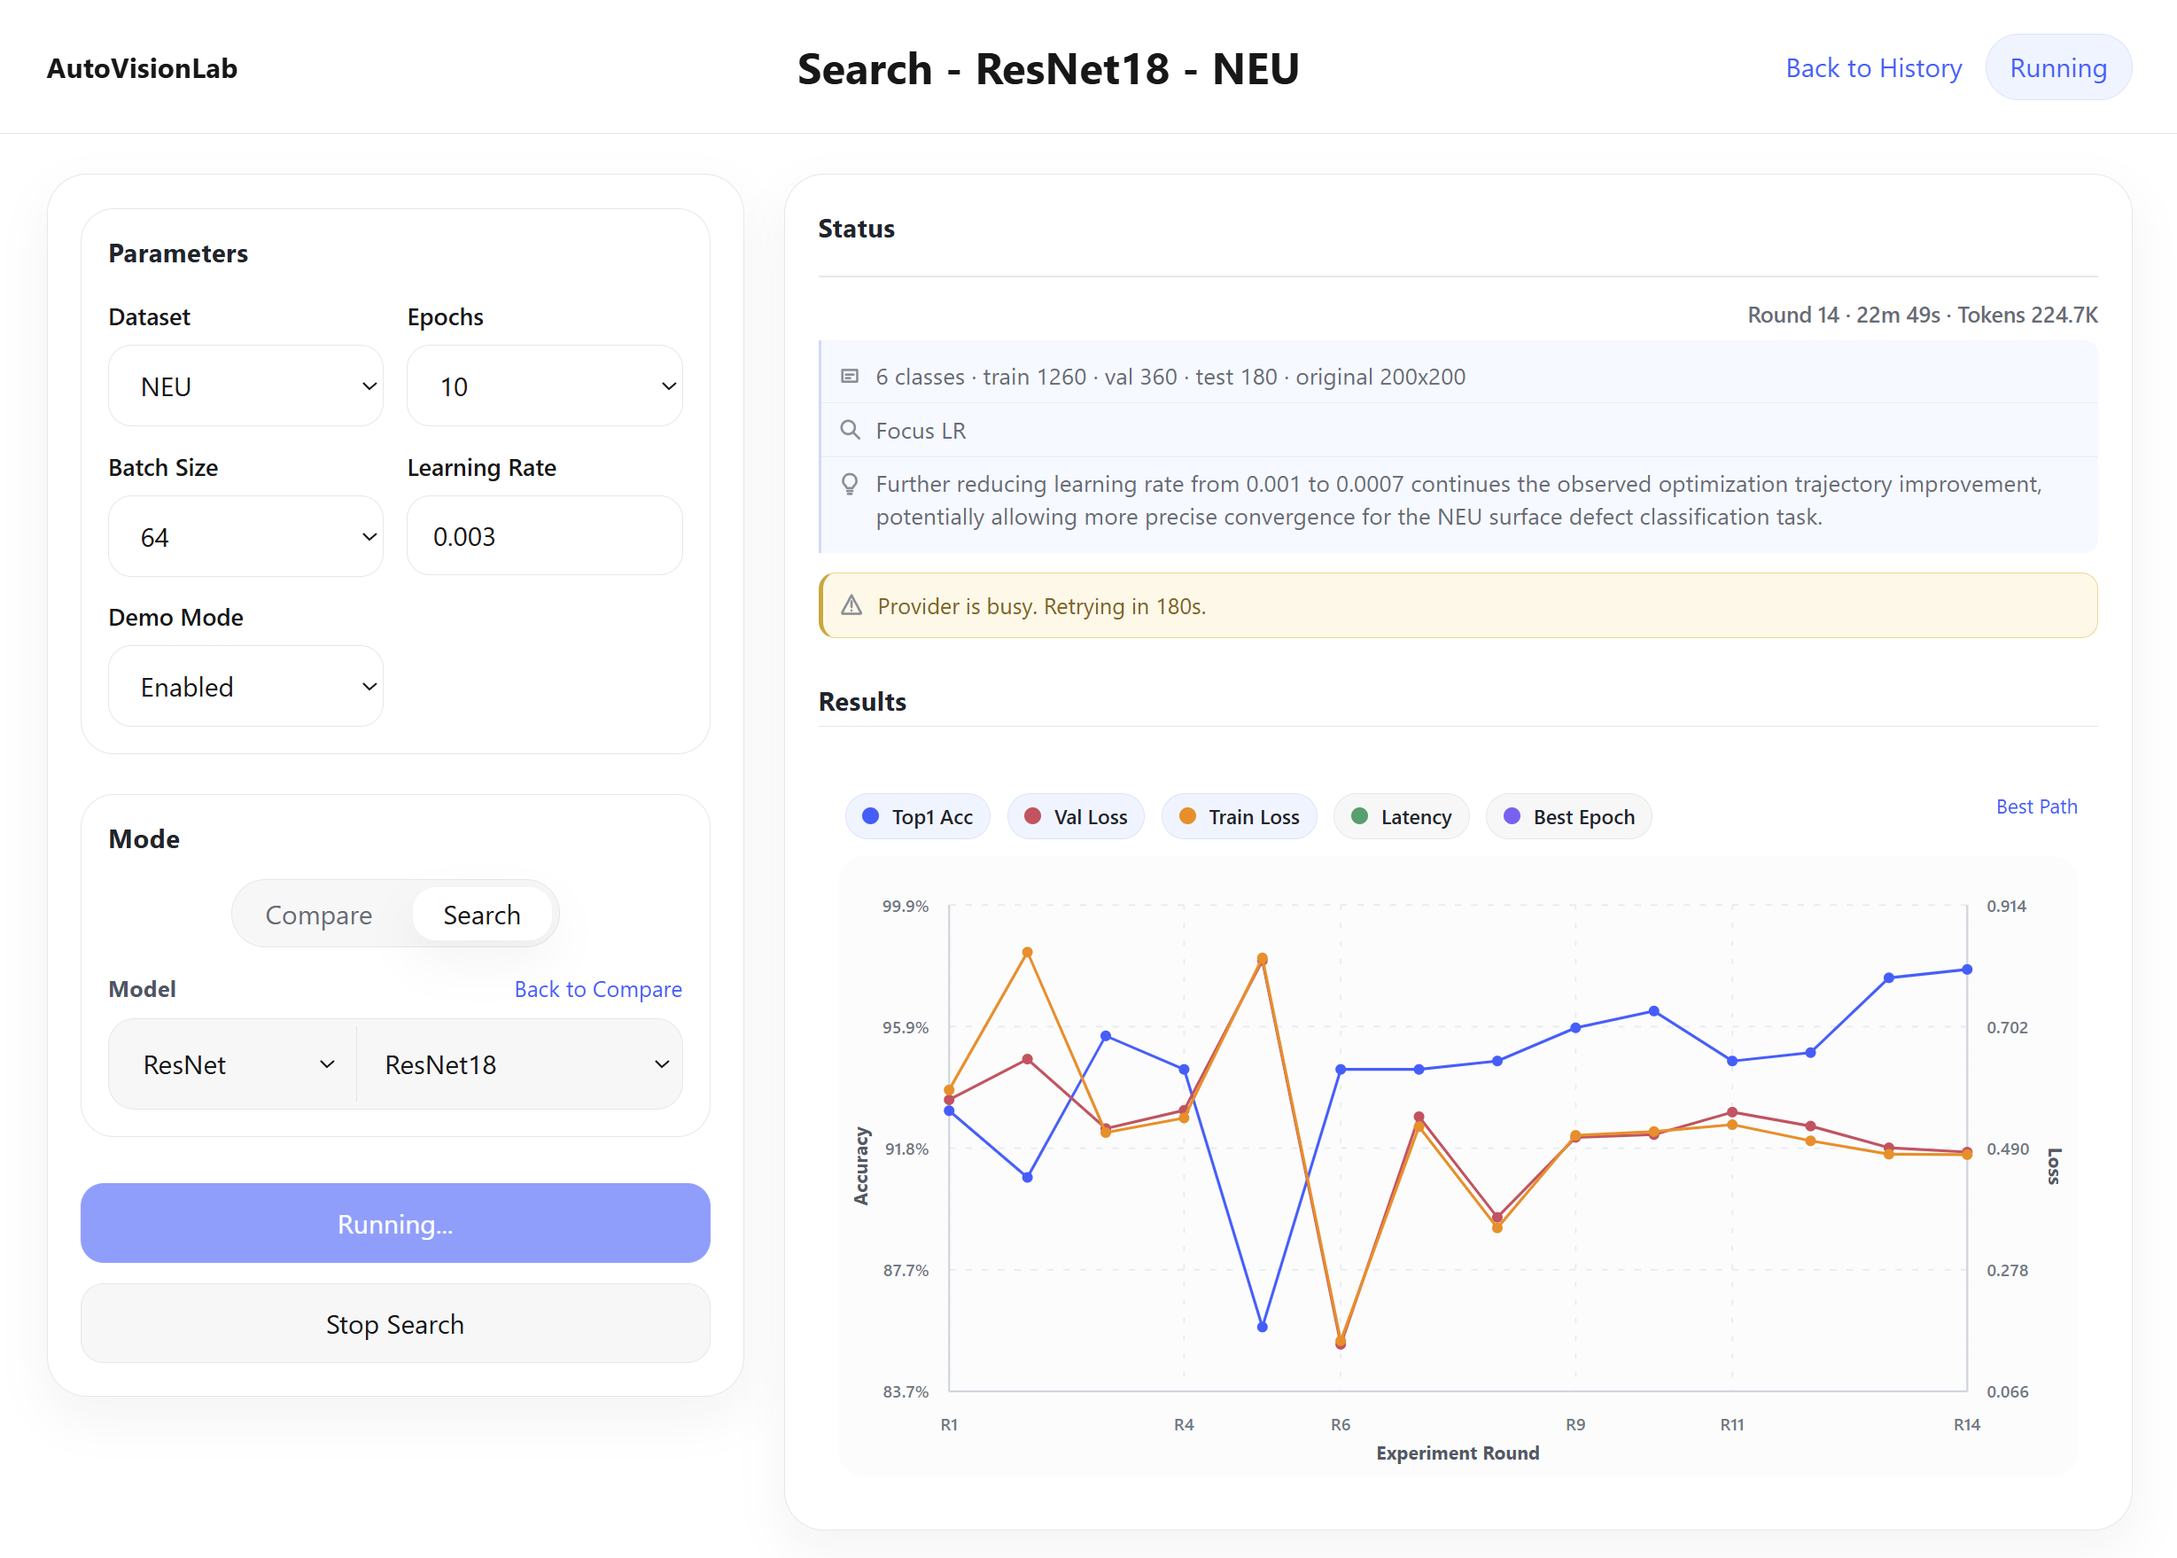
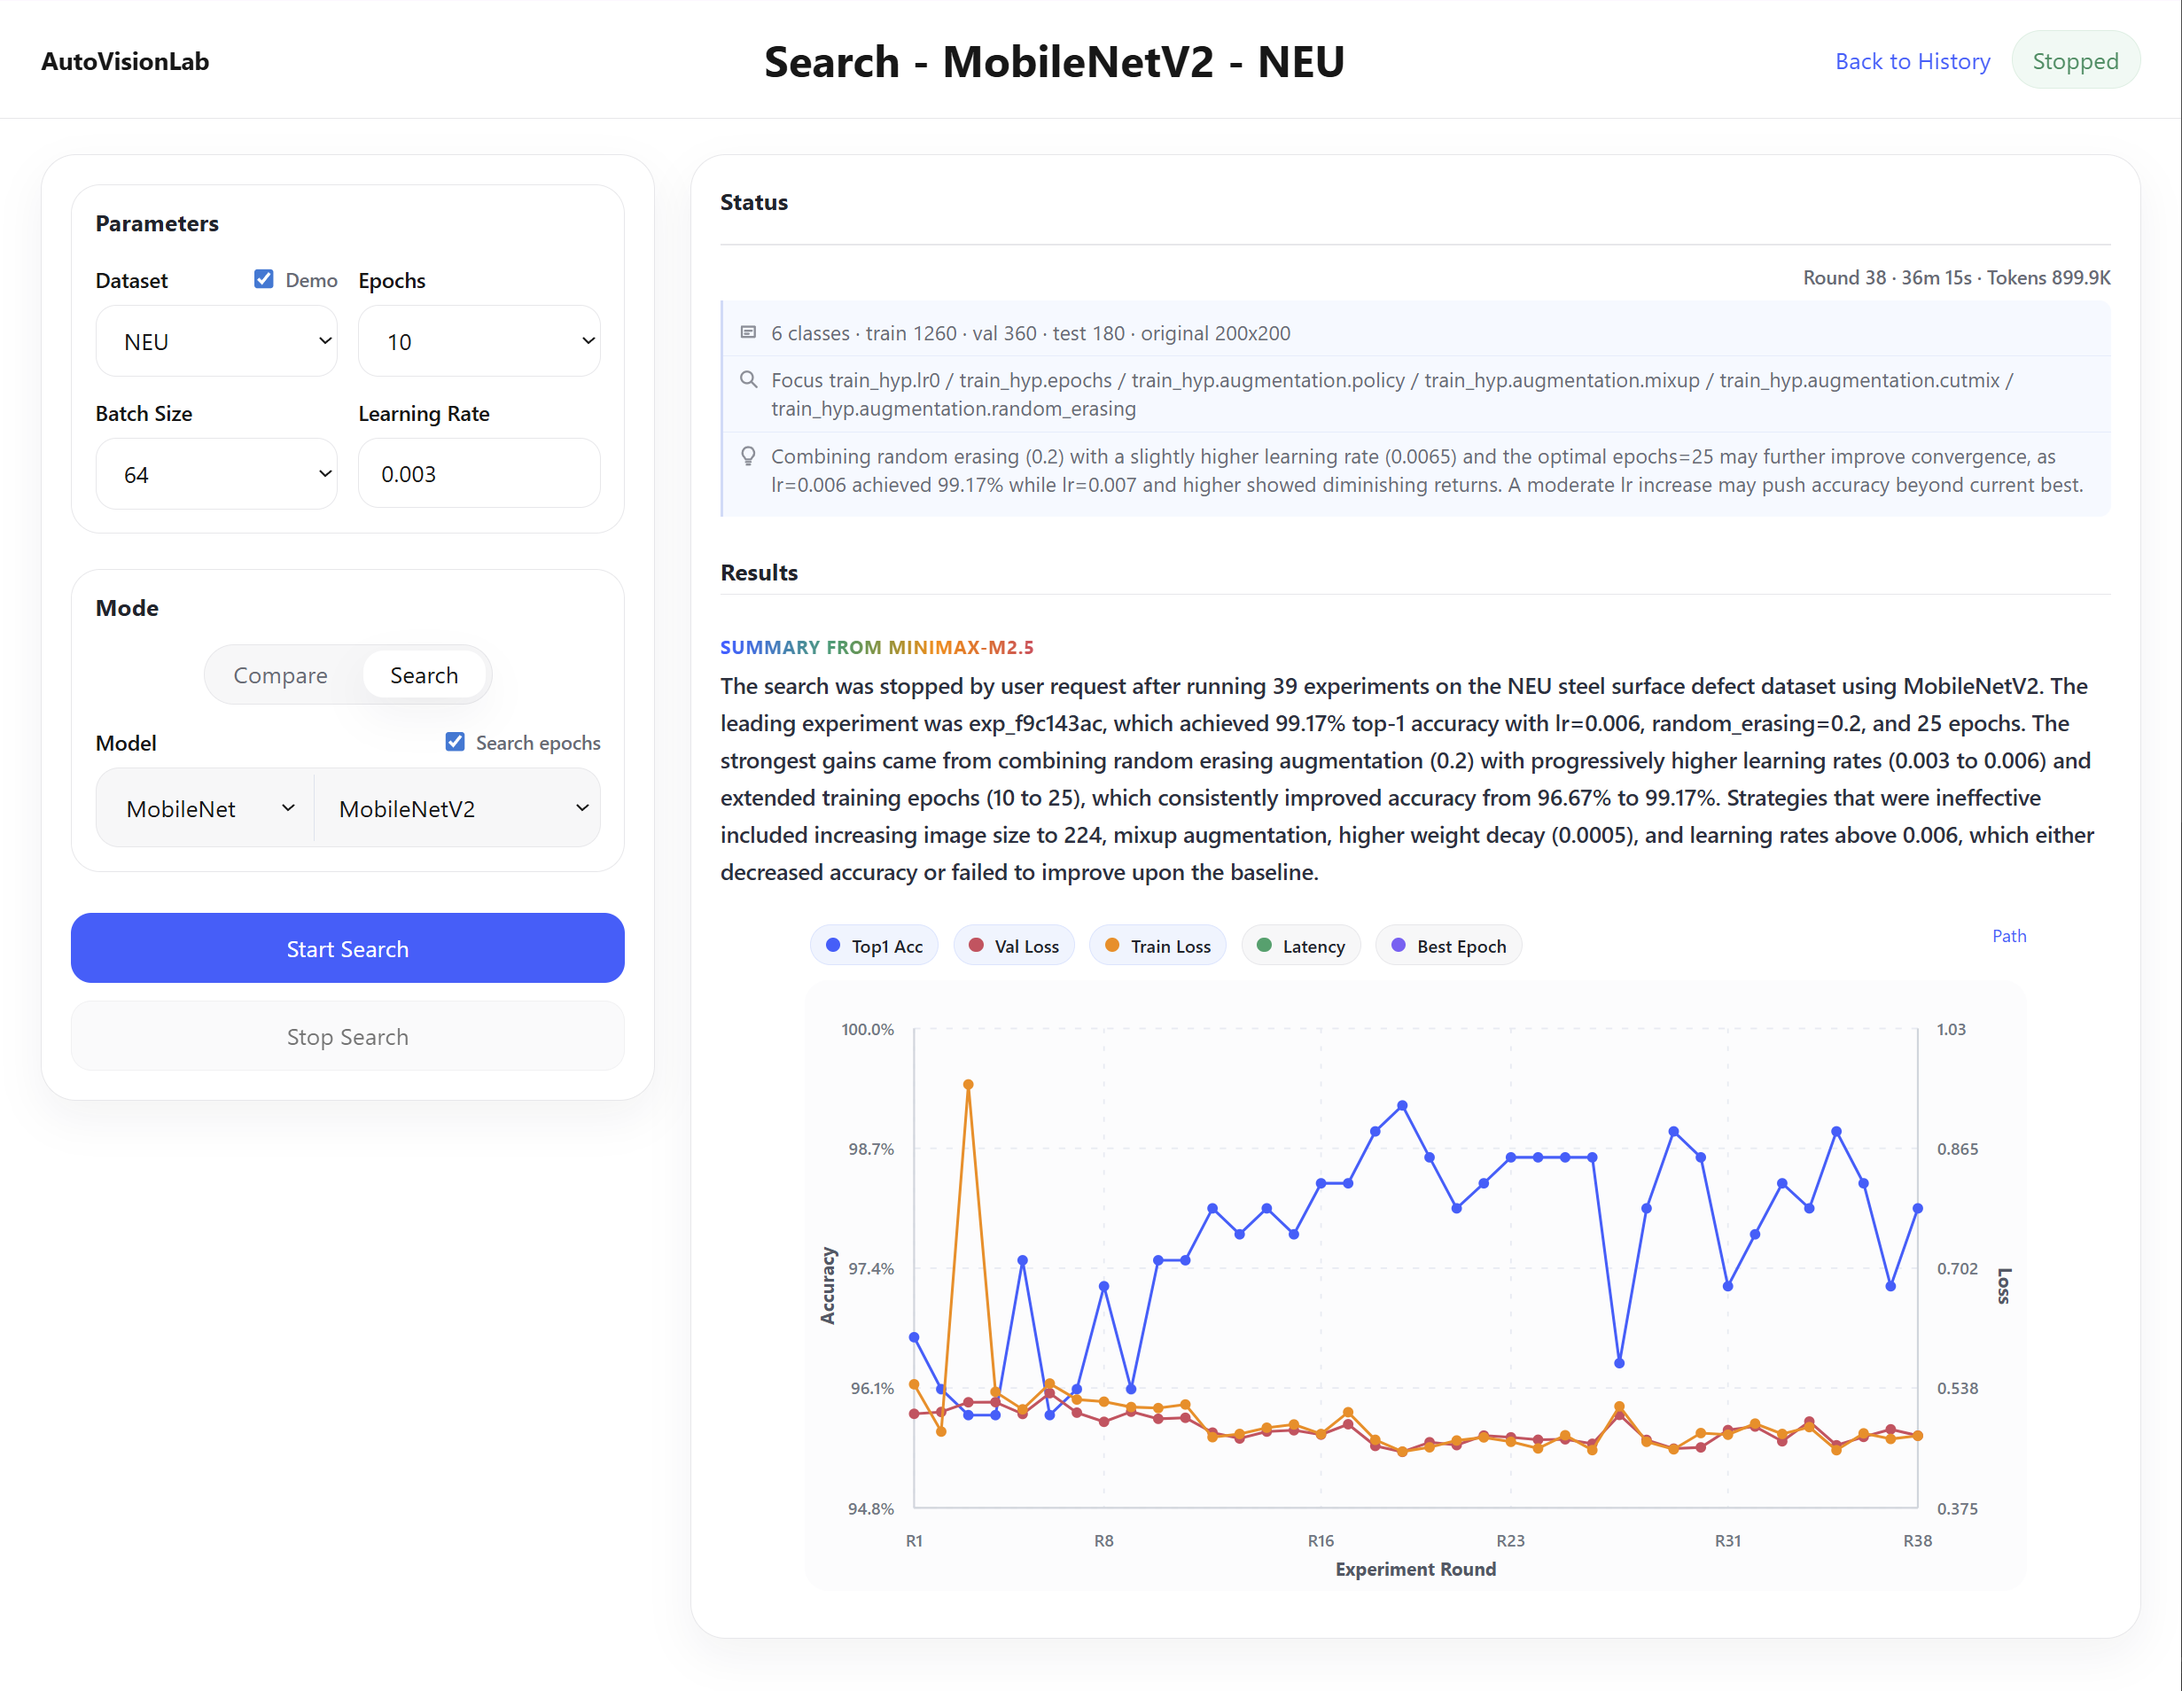
docs: refresh README and screenshot

diff --git a/README.md b/README.md
@@ -108,5 +108,5 @@ Default endpoints:
 
 This project is licensed under the [Apache License 2.0](LICENSE).
 
-[If you find this project useful, feel free to star the repository:]
+If you find this project useful, feel free to star the repository ⭐
 [![Star on GitHub](https://img.shields.io/badge/Star_on_GitHub-AutoVisionLab-181717?style=for-the-badge&logo=github)](https://github.com/Fish0403/AutoVisionLab)
